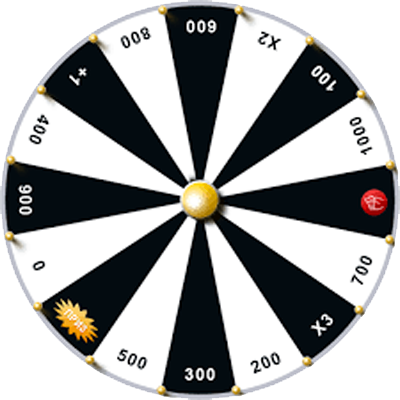
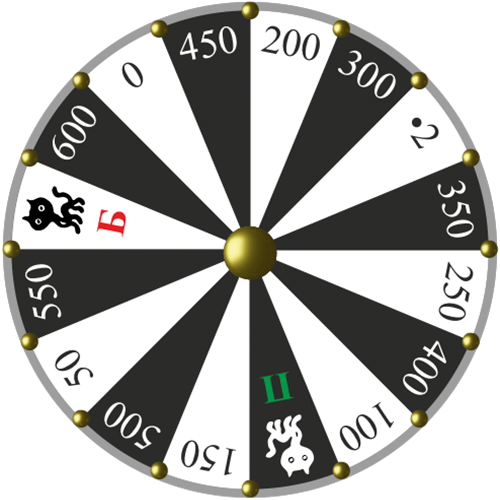
Global game update

diff --git a/menu.py b/menu.py
@@ -1,8 +1,8 @@
 import pygame
 import settings
-from hud import Button
+from hud import Button, ImageButton, TextView
 
-INPUT_W, INPUT_H = 450, 50
+INPUT_W, INPUT_H = 400, 50
 
 
 class StartMenu:
@@ -10,19 +10,20 @@ class StartMenu:
         self.start = start
         self.screen = screen
 
-        font = pygame.font.SysFont('arialblack', 44)
-        self.sign = font.render('Поле чудес', True, pygame.Color('white'))
-
         self.inputs = pygame.sprite.Group()
-        x, self.y = (settings.WIDTH - INPUT_W) // 2, (settings.HEIGHT - settings.commands * (INPUT_H + 20)) // 2
+        x, y = (settings.WIDTH - INPUT_W) // 2, (settings.HEIGHT - settings.commands * (INPUT_H + 20)) // 2
         for i in range(settings.commands):
-            InputField(f'Название команды {i + 1}', i, self.activate, x, self.y + i * (INPUT_H + 20), self.inputs)
+            InputField(f'Название команды {i + 1}', i, self.activate, x, y + i * (INPUT_H + 20), self.inputs)
+
+        self.text = pygame.sprite.GroupSingle()
+        TextView(36, 0, 0, self.text)
+        self.text.sprite.set_text(['Поле математических', 'чудес'])
+        self.text.sprite.rect.centerx, self.text.sprite.rect.bottom = settings.WIDTH // 2, y - 20
 
         self.button = pygame.sprite.GroupSingle()
-        surface = pygame.image.load(settings.button).convert_alpha()
-        Button(self.callback, surface, (settings.WIDTH - surface.get_width()) // 2,
-               (settings.HEIGHT + settings.commands * (INPUT_H + 20)) // 2, self.button)
-        self.button.sprite.set_text('Начать игру', 30, pygame.Color('white'))
+        ImageButton('Начать игру', self.callback, 0,
+                    (settings.HEIGHT + settings.commands * (INPUT_H + 20)) // 2, self.button)
+        self.button.sprite.rect.centerx = settings.WIDTH // 2
 
         self.active = None
 
@@ -45,10 +46,9 @@ class StartMenu:
         self.start(commands)
 
     def update(self):
-        self.screen.blit(self.sign, ((settings.WIDTH - self.sign.get_width()) // 2,
-                                     self.y - self.sign.get_height() // 2 - 60))
         self.inputs.update()
         self.inputs.draw(self.screen)
+        self.text.draw(self.screen)
         self.button.update()
         self.button.draw(self.screen)
 
@@ -72,21 +72,20 @@ class InputField(Button):
 
 
 class EndMenu:
-    def __init__(self, winner, start, screen):
+    def __init__(self, command, score, start, screen):
         self.start = start
         self.screen = screen
-        font = pygame.font.SysFont('arial', 40)
-        self.sign1 = font.render(f'Победила команда "{winner[1]}"', True, pygame.Color('white'))
-        self.sign2 = font.render(f'Со счетом {winner[0]}', True, pygame.Color('white'))
+
+        self.text = pygame.sprite.GroupSingle()
+        TextView(40, 0, settings.HEIGHT * 0.3, self.text)
+        self.text.sprite.set_text([f'Победила команда "{command}"', f'Со счетом {score}', 'Поздравляем!'])
+        self.text.sprite.rect.centerx = settings.WIDTH // 2
+
         self.button = pygame.sprite.GroupSingle()
-        surface = pygame.image.load(settings.button).convert_alpha()
-        Button(self.start, surface, (settings.WIDTH - surface.get_width()) // 2, settings.HEIGHT // 2, self.button)
-        self.button.sprite.set_text('Назад', 30, pygame.Color('white'))
+        ImageButton('В главное меню', self.start, 0, self.text.sprite.rect.bottom + 15, self.button)
+        self.button.sprite.rect.centerx = settings.WIDTH // 2
 
     def update(self):
-        self.screen.blit(self.sign1, ((settings.WIDTH - self.sign1.get_width()) // 2,
-                                      (settings.HEIGHT - self.sign1.get_height() - self.sign2.get_height()) // 2 - 60))
-        self.screen.blit(self.sign2, ((settings.WIDTH - self.sign2.get_width()) // 2,
-                                      (settings.HEIGHT - self.sign2.get_height()) // 2 - 40))
+        self.text.draw(self.screen)
         self.button.update()
         self.button.draw(self.screen)

diff --git a/game.py b/game.py
@@ -1,45 +1,75 @@
 import pygame
 import settings
-from wheel import Wheel
+from hud import Hud
 from task import Task
-from hud import ScoreManager
-from random import choice
+from wheel import Wheel
+from random import shuffle
 
 
 class Game:
-    def __init__(self, commands, data, end, screen):
+    def __init__(self, commands, data, callback, screen):
         self.data = data
-        self.end = end
+        self.callback = callback
         self.screen = screen
+
+        self.round = 0
+        self.command = 0
+        self.reward = None
+        shuffle(commands)
+        self.score = [[name, 0] for name in commands]
 
         self.wheel = Wheel(self.select, self.screen)
 
-        self.task = Task(data.pop(), self.answer, self.screen)
+        self.task = Task(data[self.round], self.answer, self.screen)
 
-        self.manager = ScoreManager(commands, self.screen)
-
-        self.reward = 0
-        self.wheel.rotate()
+        self.hud = Hud(self.wheel.rotate, self.screen)
+        self.hud.set_round(f'Раунд {self.round + 1}')
+        self.hud.set_score(self.score)
+        self.hud.set_alert(f'Первый ход делает команда "{commands[0]}"')
 
     def select(self, option):
-        if option[0] == '+':
-            self.reward = int(option[1:])
+        if option in ('p', 'b'):
+            if option == 'p':
+                self.score[self.command][1] += 500
+                text = f'"{self.score[self.command][0]}" + 500. '
+            else:
+                self.score[self.command][1] = 0
+                text = f'"{self.score[self.command][0]}" теряет очки. '
+            self.command = (self.command + 1) % len(self.score)
+            text += f'Ход переходит "{self.score[self.command][0]}".'
+            self.hud.set_alert(text)
+            self.hud.set_score(self.score)
+        else:
+            self.reward = option
+
+    def next(self):
+        self.round += 1
+        if len(self.data) == self.round:
+            self.callback(self.score[self.command])
+        else:
+            self.hud.set_round('Финал' if len(self.data) == self.round + 1 else f'Раунд {self.round + 1}')
+            self.command = 0
+            self.task = Task(self.data[self.round], self.answer, self.screen)
+            self.hud.callback = self.wheel.rotate
+            self.hud.set_alert(f'Ходит команда "{self.score[self.command][0]}"')
 
     def answer(self, correct, end):
-        if correct:
-            self.manager.commands[self.manager.command][0] += self.reward
-        self.reward = 0
         if end:
-            if len(self.data) == 0:
-                self.end(max(self.manager.commands))
+            self.hud.callback = self.next
+        if correct:
+            if self.reward == '*2':
+                self.score[self.command][1] *= 2
+                self.hud.set_alert(f'Верно. "{self.score[self.command][0]}" удваивает очки.')
             else:
-                self.manager.command = 0
-                self.task = Task(self.data.pop(), self.answer, self.screen)
+                self.score[self.command][1] += int(self.reward)
+                self.hud.set_alert(f'Верно. "{self.score[self.command][0]}" +{self.reward}.')
+            self.hud.set_score(self.score)
         else:
-            self.manager.command = (self.manager.command + 1) % len(self.manager.commands)
-            self.wheel.rotate()
+            self.command = (self.command + 1) % len(self.score)
+            self.hud.set_alert(f'Неверно. Ход переходит "{self.score[self.command][0]}".')
+        self.reward = None
 
     def update(self, tick):
         self.wheel.update(tick)
         self.task.update()
-        self.manager.update()
+        self.hud.update()

diff --git a/hud.py b/hud.py
@@ -1,19 +1,66 @@
 import pygame
+import settings
 
 
-class ScoreManager:
-    def __init__(self, commands, screen):
-        self.commands = tuple([0, name] for name in commands)
-        self.command = 0
+class Hud:
+    def __init__(self, callback, screen):
+        self.callback = callback
         self.screen = screen
-        self.font = pygame.font.SysFont('arial', 28)
+
+        self.round = pygame.sprite.GroupSingle()
+        TextView(36, 0, settings.HEIGHT * 0.01, self.round)
+
+        self.score = pygame.sprite.GroupSingle()
+        TextView(24, settings.WIDTH * 0.03, settings.HEIGHT * 0.1, self.score)
+
+        self.alert = pygame.sprite.GroupSingle()
+        TextView(24, 0, settings.HEIGHT * 0.8, self.alert)
+        self.btn_alert = pygame.sprite.GroupSingle()
+        ImageButton('Продолжить игру', self.clicked, 0, 0, self.btn_alert)
+        self.btn_alert.sprite.rect.centerx = settings.WIDTH // 2
+        self.active = False
+
+    def clicked(self):
+        self.active = False
+        self.callback()
+
+    def set_round(self, name):
+        self.round.sprite.set_text([name])
+        self.round.sprite.rect.centerx = settings.WIDTH // 2
+
+    def set_score(self, score):
+        self.score.sprite.set_text([f'{el[0]}: {el[1]}' for el in score])
+
+    def set_alert(self, alert):
+        self.alert.sprite.set_text([alert])
+        self.alert.sprite.rect.centerx = settings.WIDTH // 2
+        self.btn_alert.sprite.rect.y = self.alert.sprite.rect.bottom + 3
+        self.active = True
 
     def update(self):
-        x, y = 25, 25
-        for i in range(len(self.commands)):
-            sign = self.font.render(f'{self.commands[i][1]}: {self.commands[i][0]}', True,
-                                    pygame.Color('green' if i == self.command else 'white'))
-            self.screen.blit(sign, (x, y + i * 35))
+        self.round.draw(self.screen)
+        self.score.draw(self.screen)
+        if self.active:
+            self.alert.draw(self.screen)
+            self.btn_alert.update()
+            self.btn_alert.draw(self.screen)
+
+
+class TextView(pygame.sprite.Sprite):
+    def __init__(self, size, x, y, group):
+        super().__init__(group)
+        self.font = pygame.font.SysFont('arialblack', size)
+        self.x, self.y = x, y
+
+    def set_text(self, text):
+        sign = [self.font.render(el, True, pygame.Color('white')) for el in text]
+        width = max(map(lambda x: x.get_width(), sign))
+        height = sign[0].get_height() + 2
+        self.image = pygame.Surface((width + 4, height * len(sign) + 2))
+        self.image.fill(pygame.Color('royalblue'))
+        for i, el in enumerate(sign):
+            self.image.blit(el, ((width - el.get_width()) // 2 + 2, height * i + 2))
+        self.rect = self.image.get_rect(x=self.x, y=self.y)
 
 
 class Button(pygame.sprite.Sprite):
@@ -39,3 +86,10 @@ class Button(pygame.sprite.Sprite):
         font = pygame.font.SysFont('arialblack', size)
         sign = font.render(text, True, color)
         self.image.blit(sign, ((self.rect.w - sign.get_width()) // 2, (self.rect.h - sign.get_height()) // 2))
+
+
+class ImageButton(Button):
+    def __init__(self, text, on_click, x, y, group):
+        surface = pygame.image.load(settings.button).convert_alpha()
+        super().__init__(on_click, surface, x, y, group)
+        self.set_text(text, 30, pygame.Color('white'))

diff --git a/task.py b/task.py
@@ -2,7 +2,7 @@ import pygame
 import settings
 from hud import Button
 
-BOX_SIZE = 35
+BOX_SIZE = 40
 
 
 class Task:
@@ -11,19 +11,15 @@ class Task:
         self.screen = screen
 
         self.boxes = pygame.sprite.Group()
-        sizes = (len(data['first']), len(data['second']), len(data['sum']))
-        self.x = (settings.WIDTH + max(sizes) * BOX_SIZE) // 2
-        self.y = settings.HEIGHT * 0.7
-        self.add(data['first'], self.x - sizes[0] * BOX_SIZE, self.y)
-        self.add(data['second'], self.x - sizes[1] * BOX_SIZE, self.y + BOX_SIZE + 5)
-        self.add(data['sum'], self.x - sizes[2] * BOX_SIZE, self.y + 2 * BOX_SIZE + 15)
+        self.x, self.xn = settings.WIDTH * 0.97, max(map(len, data['expressions']))
+        self.y, self.yn = settings.HEIGHT * 0.1, len(data['expressions'])
+        for i, text in enumerate(data['expressions']):
+            for j, char in enumerate(text):
+                TaskSprite(char, self.callback, self.x - BOX_SIZE * (len(text) - j),
+                           self.y + i * (BOX_SIZE + (2 if i != self.yn - 1 else 4)), self.boxes)
 
         self.answers = data['answers']
         self.selected = None
-
-    def add(self, text, x, y):
-        for i, char in enumerate(text):
-            TaskSprite(char, self.callback, x + (i * BOX_SIZE), y, self.boxes)
 
     def callback(self, char):
         if char in self.answers.keys():
@@ -53,13 +49,16 @@ class Task:
             self.select()
 
     def update(self):
+        pygame.draw.rect(self.screen, pygame.Color('royalblue'),
+                         (self.x - self.xn * BOX_SIZE - 24, self.y - 4,
+                          self.xn * BOX_SIZE + 28, self.yn * (BOX_SIZE + 2) + 12), 0)
         self.boxes.update()
         self.boxes.draw(self.screen)
-        cx, cy = settings.WIDTH - self.x + 10, self.y + BOX_SIZE - 10
+        cx, cy = self.x - self.xn * BOX_SIZE - 21, self.y + (self.yn - 1) / 2 * (BOX_SIZE + 2) - 11
         pygame.draw.line(self.screen, pygame.Color('white'), (cx + 10, cy), (cx + 10, cy + 20), 2)
         pygame.draw.line(self.screen, pygame.Color('white'), (cx, cy + 10), (cx + 20, cy + 10), 2)
-        ly = self.y + 2 * BOX_SIZE + 10
-        pygame.draw.line(self.screen, pygame.Color('white'), (settings.WIDTH - self.x, ly), (self.x, ly), 2)
+        ly = self.y + (self.yn - 1) * (BOX_SIZE + 2)
+        pygame.draw.line(self.screen, pygame.Color('white'), (cx, ly), (self.x, ly), 2)
 
 
 class TaskSprite(Button):
@@ -72,4 +71,4 @@ class TaskSprite(Button):
         super().update()
         self.image.fill(pygame.Color('dodgerblue4' if self.active else 'dodgerblue'))
         pygame.draw.rect(self.image, pygame.Color('white'), (0, 0, BOX_SIZE, BOX_SIZE), 1)
-        self.set_text(self.char, 22, 'white')
+        self.set_text(self.char, 28, 'white')

diff --git a/wheel.py b/wheel.py
@@ -7,7 +7,7 @@ class Wheel:
     def __init__(self, select, screen):
         self.screen = screen
         self.wheel = pygame.sprite.GroupSingle()
-        WheelSprite(select, settings.WIDTH // 2, int(settings.HEIGHT * 0.3), self.wheel)
+        WheelSprite(select, settings.WIDTH // 2, int(settings.HEIGHT * 0.45), self.wheel)
 
     def rotate(self):
         self.wheel.sprite.rotate()
@@ -17,7 +17,7 @@ class Wheel:
         self.wheel.draw(self.screen)
         x = self.wheel.sprite.x
         y = self.wheel.sprite.y - self.wheel.sprite.sprite.get_height() // 2
-        pygame.draw.polygon(self.screen, pygame.Color('orangered'), ((x - 10, y - 10), (x, y + 10), (x + 10, y - 10)))
+        pygame.draw.polygon(self.screen, pygame.Color('gold'), ((x - 10, y - 10), (x, y + 10), (x + 10, y - 10)))
 
 
 class WheelSprite(pygame.sprite.Sprite):
@@ -41,5 +41,5 @@ class WheelSprite(pygame.sprite.Sprite):
             self.rect = self.image.get_rect(center=(self.x, self.y))
             self.speed -= settings.boost * tick
             if self.speed <= 0:
-                self.callback(settings.options[int(self.angle / 360 * len(settings.options) + 0.49)])
+                self.callback(settings.options[int(self.angle / 360 * len(settings.options))])
 

diff --git a/manager.py b/manager.py
@@ -27,7 +27,7 @@ class Manager:
 
     def game_end(self, winner):
         self.game = None
-        self.end = EndMenu(winner, self.menu_start, self.screen)
+        self.end = EndMenu(*winner, self.menu_start, self.screen)
 
     def update(self, tick):
         self.screen.blit(self.background, (0, 0))
@@ -43,5 +43,5 @@ class Manager:
             if self.menu is not None:
                 self.menu.keyboard(None if event.key == pygame.K_BACKSPACE else event.unicode)
             if self.game is not None:
-                if pygame.K_0 <= event.key <= pygame.K_9:
+                if pygame.K_0 <= event.key <= pygame.K_9 and self.game.reward is not None:
                     self.game.task.keyboard(event.key - pygame.K_0)

diff --git a/settings.py b/settings.py
@@ -3,14 +3,14 @@ WIDTH, HEIGHT = 1280, 720
 questions = 'resources/questions.json'
 
 wheel = 'resources/wheel.png'
-options = ['+600', '*2', '+100', '+1000', 'repeat', '+700', '*3', '+200', '+300',
-           '+500', 'prize', '+0', '+900', '+400', 'open', '+800']
+options = ['200', '300', '*2', '350', '250', '400', '100', 'p', '150',
+           '500', '50', '550', 'b', '600', '0', '450']
 min_speed, max_speed = 0.15, 0.35
 boost = 0.00004
 
 commands = 3
 rounds = 4
 
-background = 'resources/background.png'
+background = 'resources/background.jpg'
 button = 'resources/button.png'
 

diff --git a/main.py b/main.py
@@ -8,6 +8,8 @@ if getattr(sys, 'frozen', False):
     os.chdir(sys._MEIPASS)
 
 pygame.init()
+pygame.display.set_caption('Поле математических чудес')
+pygame.display.set_icon(pygame.image.load(settings.wheel))
 screen = pygame.display.set_mode((settings.WIDTH, settings.HEIGHT))
 clock = pygame.time.Clock()
 running = True
